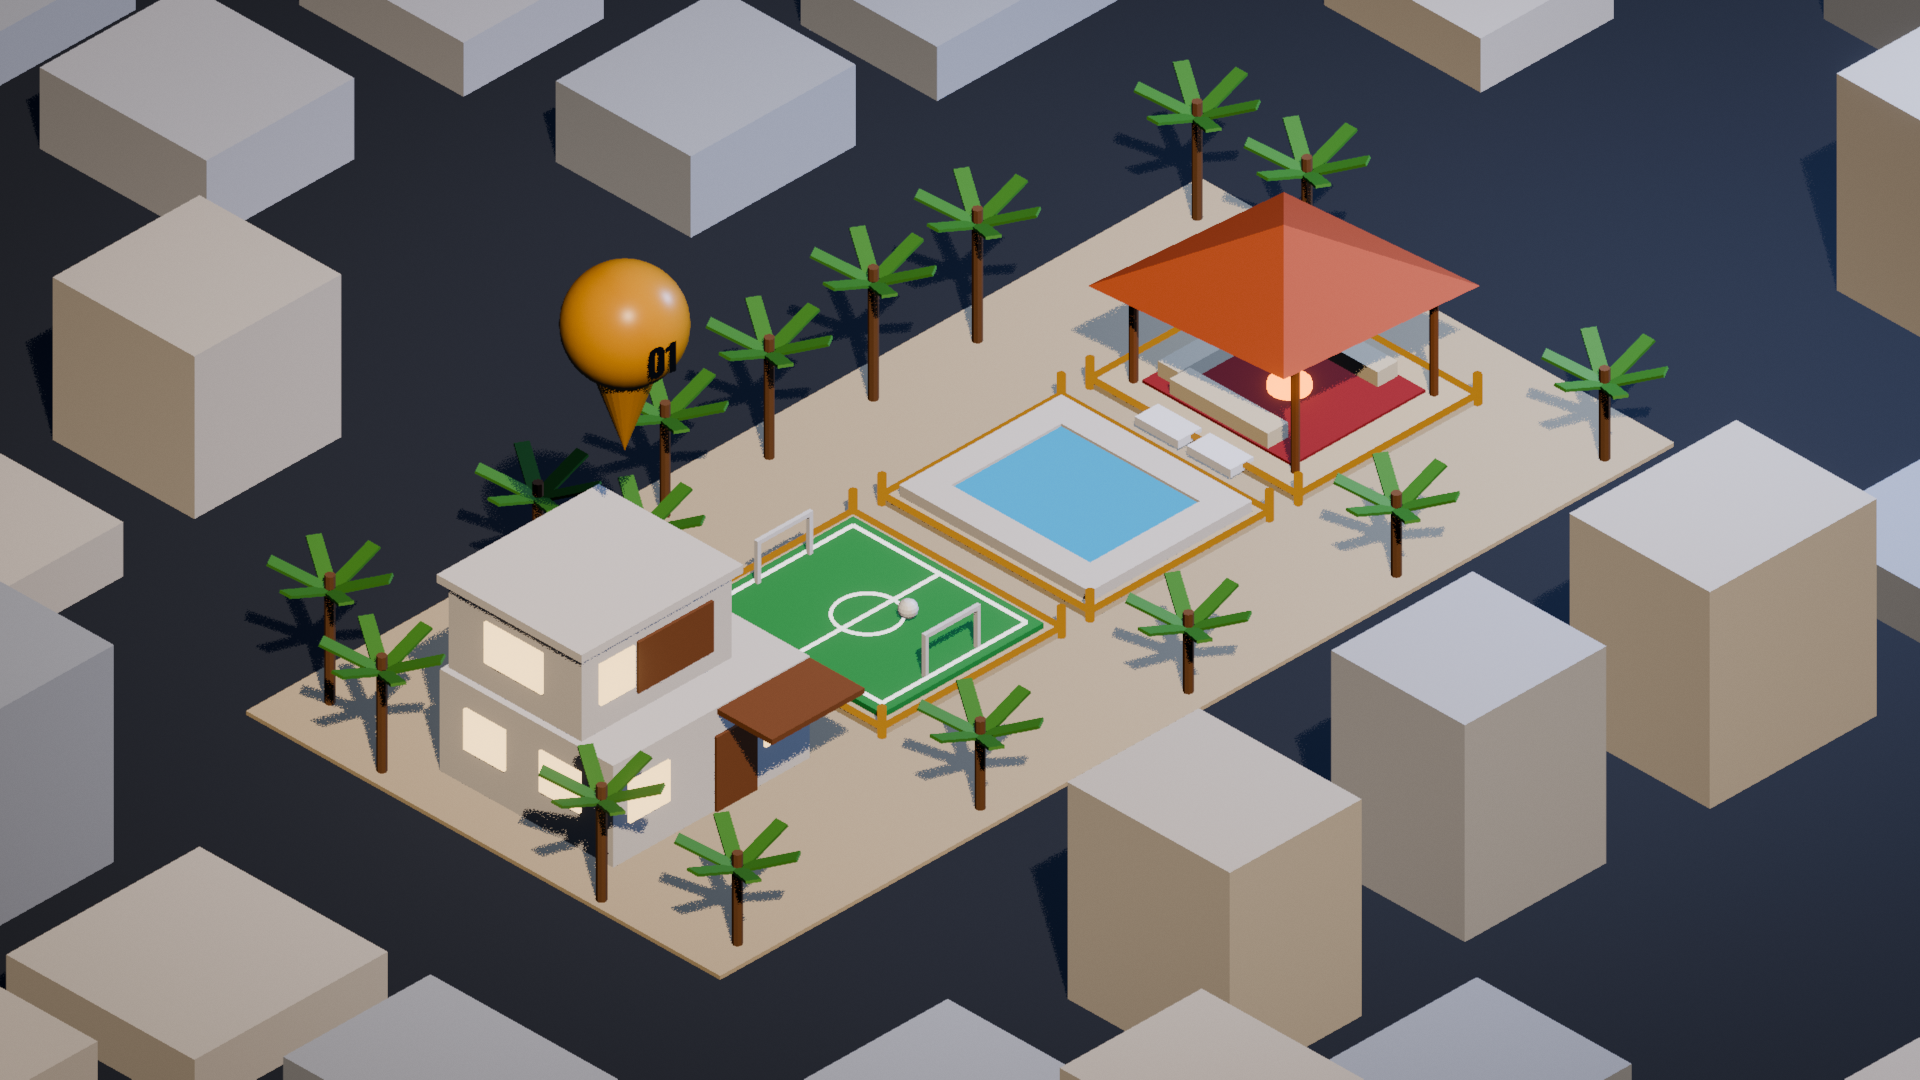
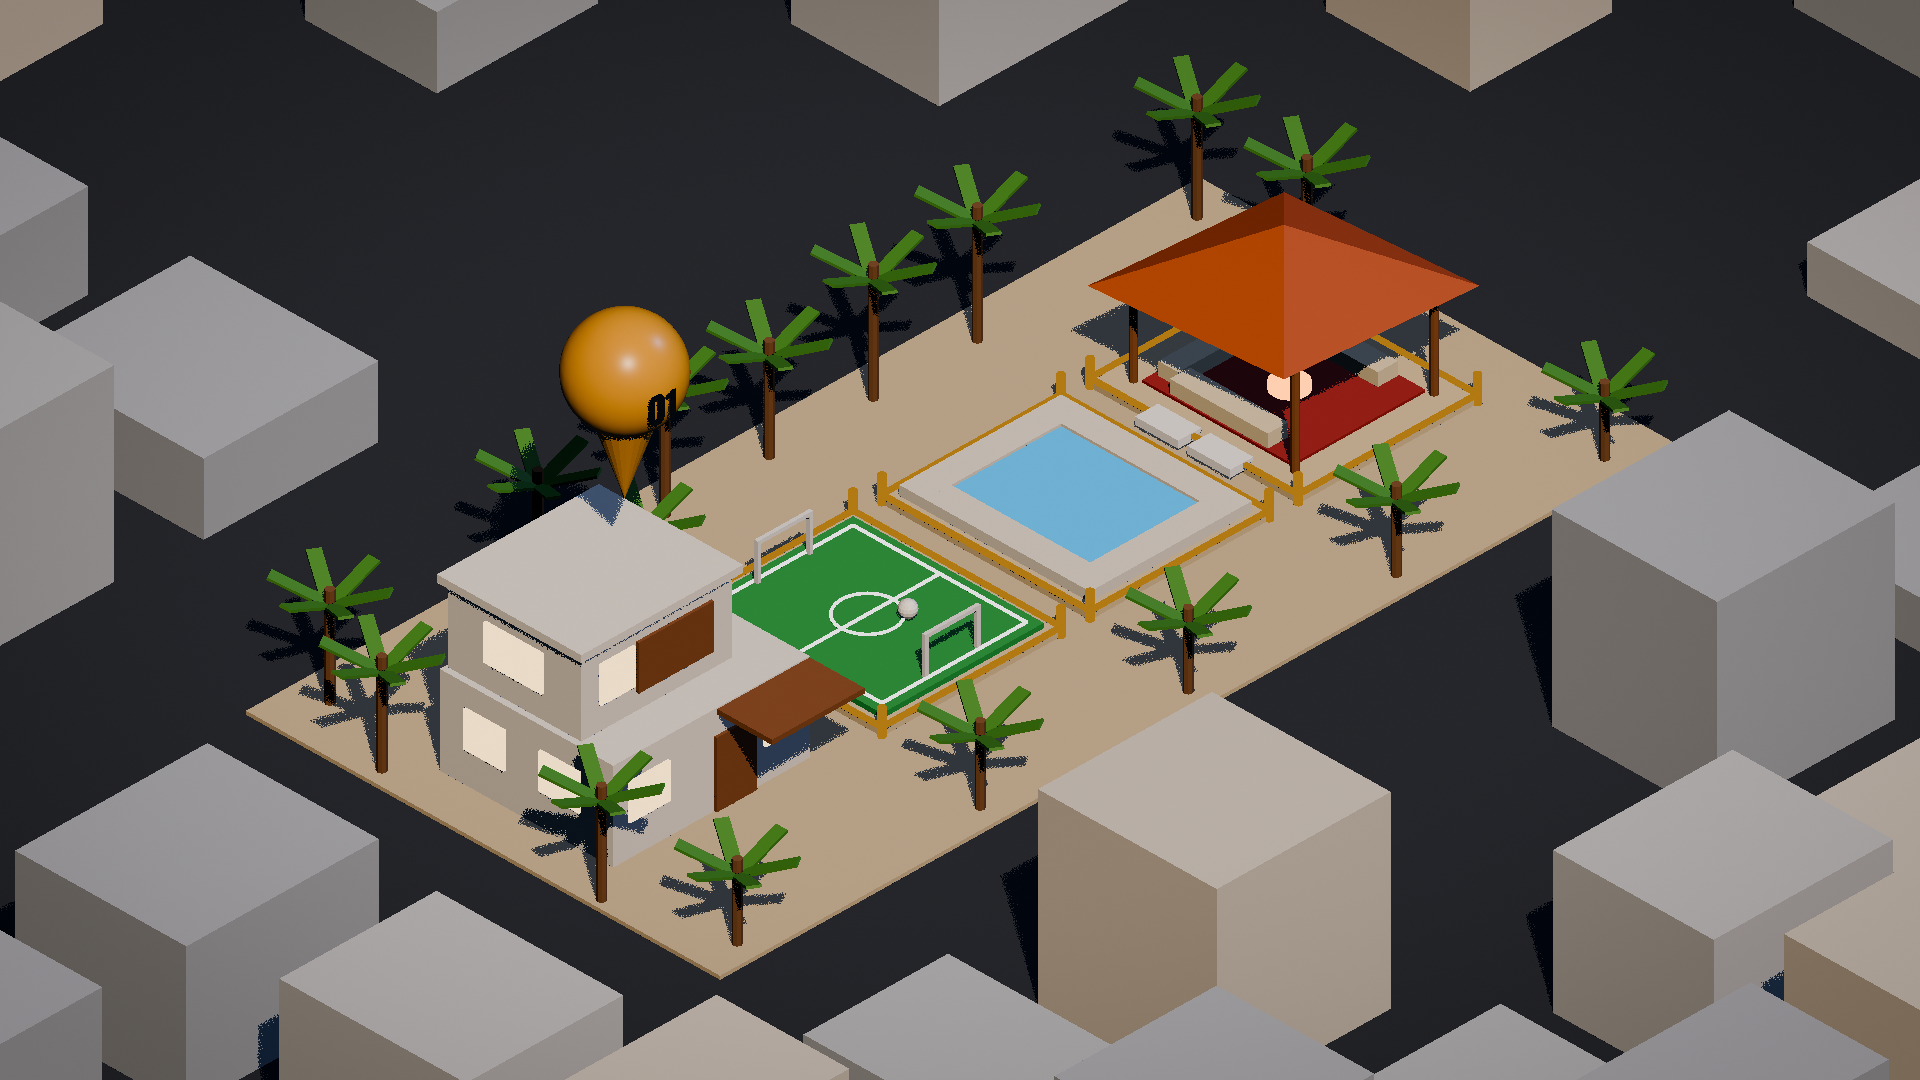
yaqout-villa: thinner city and sun fill to fit the render time limit
Claude-Session: https://claude.ai/code/session_01UXaaCEC56JgZpFCmZh6i5u

diff --git a/shots/yaqout-villa/yaqout-villa.py b/shots/yaqout-villa/yaqout-villa.py
@@ -110,7 +110,7 @@ for gx in range(-8, 9):
         x, y = gx * 4.4 + 2.2, gy * 4.4
         if SITE[0] - 1 < x < SITE[1] + 1 and SITE[2] - 1 < y < SITE[3] + 1:
             continue
-        if random.random() < 0.22:
+        if random.random() < 0.34:
             continue
         w, d, h = random.uniform(2.2, 3.4), random.uniform(2.2, 3.4), random.choice((0.8, 1.2, 1.6, 2.4, 3.2))
         root = kit.empty((x, y, 0.0), f"B{gx}_{gy}")
@@ -296,7 +296,7 @@ for i, x in enumerate((-5.2, -1.6, 0.6, 2.4, 4.2, 6.0, 9.8)):
 # ---------------------------------------------------------------- light: one warm sun, a cool fill from the sky colour
 sun = kit.light("SUN", (-14, -22, 30), (2, 0, 0), power=3.2, color="#FFE9CF", name="Sun")
 sun.data.angle = math.radians(1)
-fill = kit.light("AREA", (24, -10, 18), (2, 0, 0), power=9000, color="#A9C3FF", size=3.0, name="Fill")
+fill = kit.light("SUN", (24, -10, 18), (2, 0, 0), power=0.9, color="#A9C3FF", name="Fill")   # cheaper than an area light
 fill.data.use_shadow = False
 for lt in bpy.data.lights:
     if hasattr(lt, "use_shadow_jitter"):
